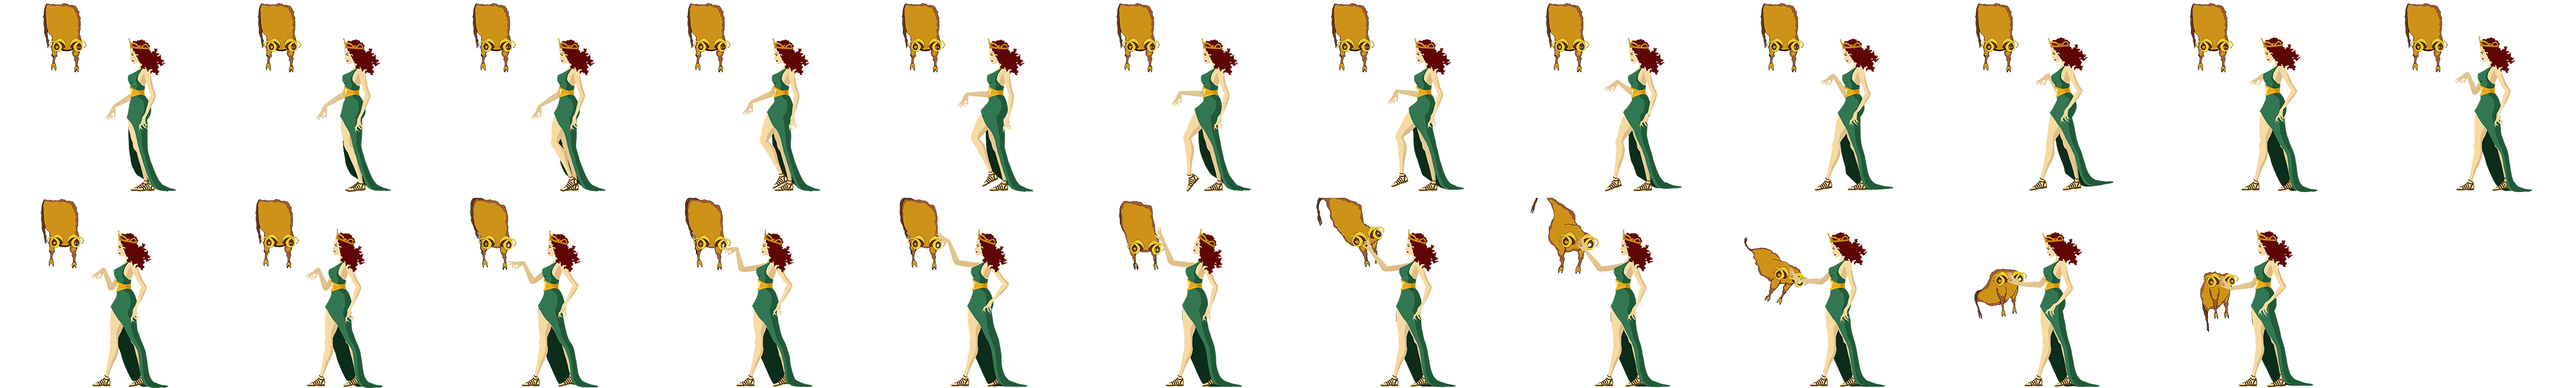
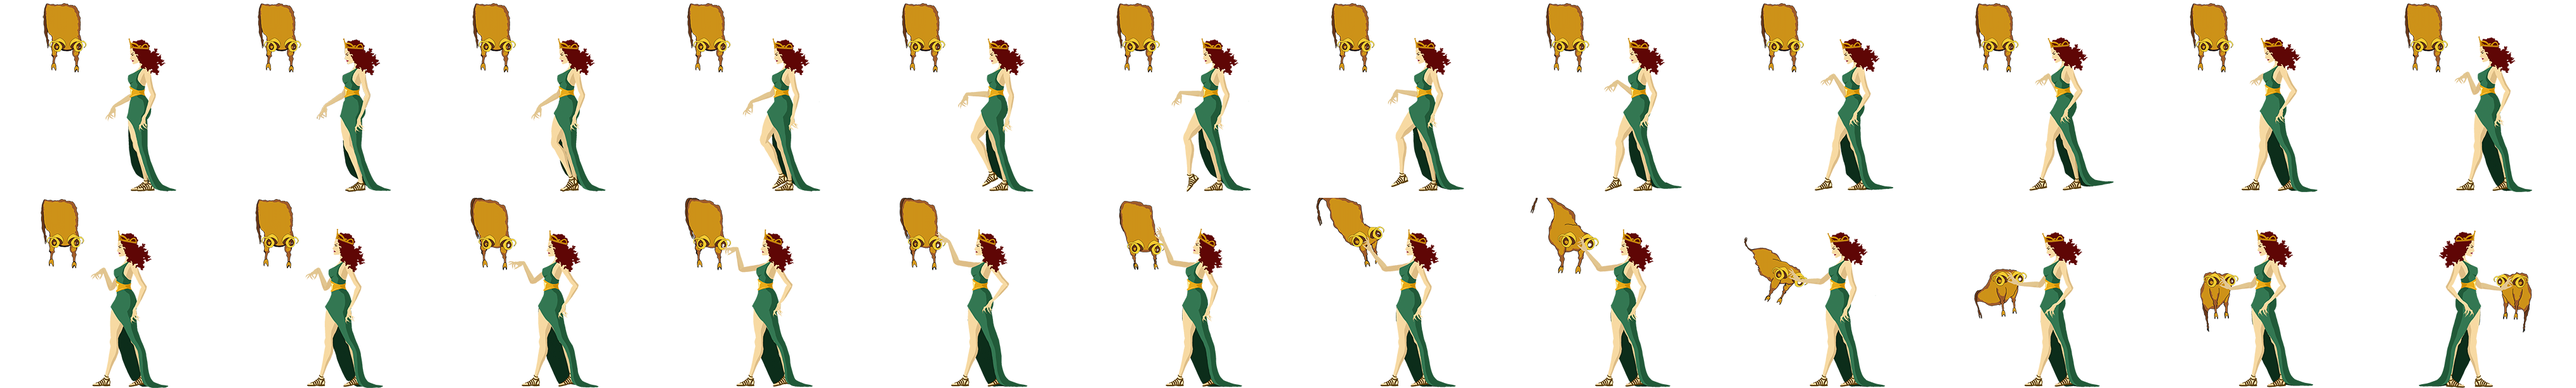
update medea cutscene
Changed the medea cutscene so that medea appears on the right

Changed region(s): [[0.931, 0.5899, 0.9931, 1.0]]

diff --git a/code/engine/enemy.js b/code/engine/enemy.js
@@ -1596,7 +1596,7 @@ class medeaCharacterCutscene extends enemyBase {
             scene: createThis, 
             x: parameter.x, 
             y: parameter.y,
-            key: 'medeaBossRight', 
+            key: 'medeaBoss', 
             xMove: parameter.xMove,
             xVel: 130, 
             scale: 0.25, 
@@ -1609,16 +1609,14 @@ class medeaCharacterCutscene extends enemyBase {
 
     update () {  
          this.damageTouch=false;
-            
-        if (this.x> 1800&&animationDone==false){
+        if (this.x< 1880&&animationDone==false){
                     this.body.setOffset(0,50);
-            this.setFlip(true, false)
             this.anims.play('medeaTaking', true);
             this.gravity=false;
             this.body.setVelocityY(0);
             this.body.setVelocityX(0);
                                     setTimeout(this.runOff,1500,this);
-                                    setTimeout(this.startNextLevel,5000,this);
+                                    setTimeout(this.startNextLevel,3700,this);
 
         animationDone=true;
         nextPhase=false;
@@ -1631,7 +1629,7 @@ class medeaCharacterCutscene extends enemyBase {
     
     movement(){
         if (animationDone==false){
-            createThis.physics.moveTo(this, 2050,1760, 100);
+            createThis.physics.moveTo(this, 1850,1760, 100);
 
         }
          if (nextPhase==true){
@@ -1641,7 +1639,6 @@ class medeaCharacterCutscene extends enemyBase {
     
      runOff(){
         nextPhase=true;
-         console.log(nextPhase);
     }
     
     startNextLevel(){

diff --git a/code/engine/Levels/medeaCutscene.js b/code/engine/Levels/medeaCutscene.js
@@ -52,7 +52,7 @@ class medeaCutscene extends Phaser.Scene {
         
         createThis.anims.create({
             key: 'medeaTaking',
-            frames: createThis.anims.generateFrameNumbers('medeaTaking', { start: 0, end: 22 }),
+            frames: createThis.anims.generateFrameNumbers('medeaTaking', { start: 0, end: 23 }),
             frameRate: 15,
             repeat: false
         });
